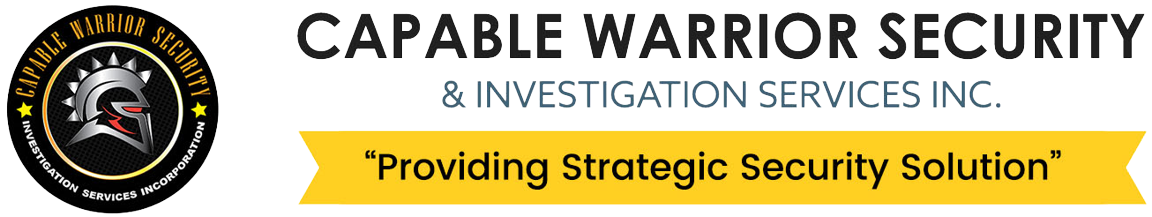
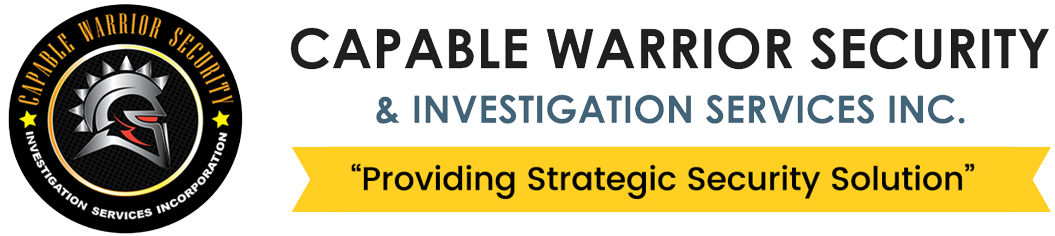
test

diff --git a/index.html b/index.html
@@ -880,7 +880,7 @@
         <div class="row">
 
           <div class="col-lg-6 col-md-6 footer-contact">
-            <img src="assets/img/footer/Capable warrior logo.png" alt="" style="width:100% ;">
+            <img src="assets/img/header1.png" alt="" style="width:100% ;">
             <br>
             <h3 class="footer_title" style="margin-top:30px;">CONTACT INFO</h3>
 
